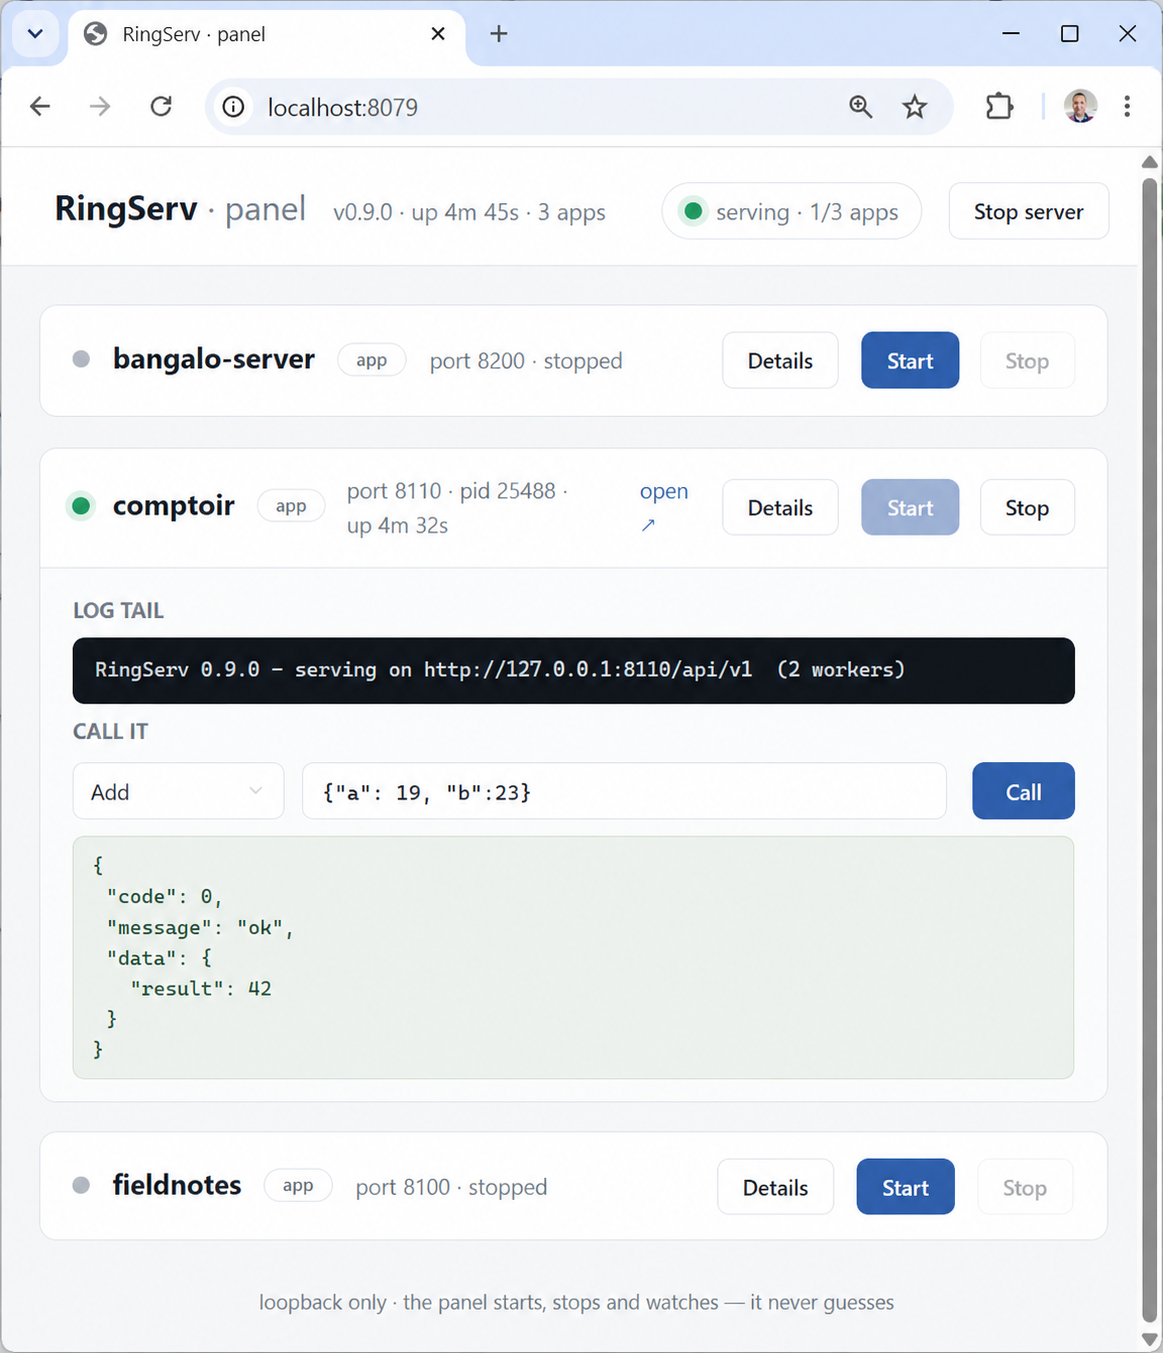
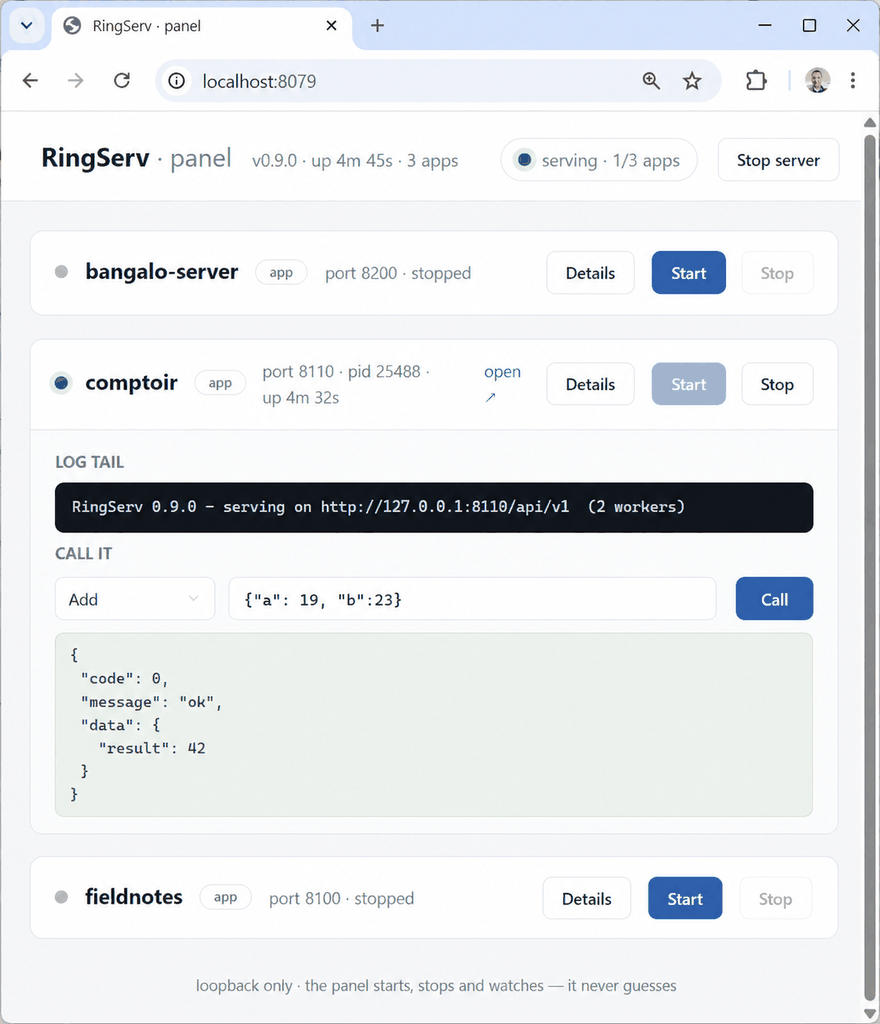
Shrink the panel snapshot: 1 MB to 414 KB, displayed at 33rem
The author's review: the snapshot was very large. Resized 1163px to
880px, quantized to 256 colours (it is a UI screenshot; nothing is
lost), and capped on the page at 33rem centered -- a window, not a wall.

diff --git a/site/index.html b/site/index.html
@@ -42,7 +42,8 @@
 
 <section class="wrap" style="padding-top:1rem">
   <figure>
-    <img src="ringserv-admin-panel.png" alt="The RingServ admin panel — three applications hosted, one running, its log tail and a live call answering 42">
+    <img src="ringserv-admin-panel.png" style="max-width:33rem; display:block; margin:0 auto"
+         alt="The RingServ admin panel — three applications hosted, one running, its log tail and a live call answering 42">
     <figcaption>The admin panel: every application in one place — start it, stop it,
     watch its log, and call any action right from the browser. It ships inside the
     same binary: <code>ringserv panel .</code>
